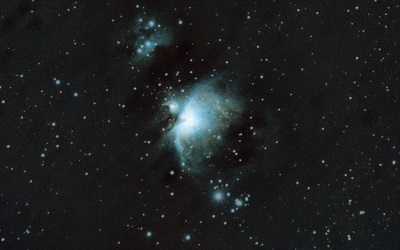
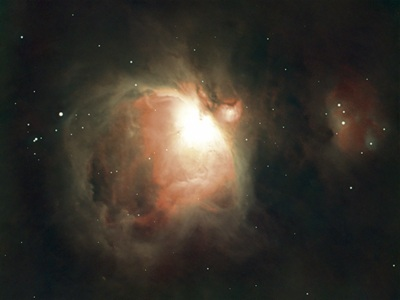
Added latest Orion photo.

diff --git a/astro.html b/astro.html
@@ -31,6 +31,11 @@
 							<p>Closed-loop guiding with PID control</p>
 						</article>
 						<article class="thumb">
+							<a href="images/astro/fulls/orion.jpg" class="image"><img src="images/astro/thumbs/orion.jpg" alt="" /></a>
+							<h2>Orion Nebula (M42)</h2>
+							<p>ZWO ASI533MC Pro, 80mm f/5 telescope, 16 x 240s, guided</p>
+						</article>
+						<article class="thumb">
 							<a href="images/astro/fulls/veil.jpg" class="image"><img src="images/astro/thumbs/veil.jpg" alt="" /></a>
 							<h2>Western Veil Nebula (NGC 6960)</h2>
 							<p>ZWO ASI533MC Pro, 80mm f/5 telescope, 44 x 120s, guided</p>
